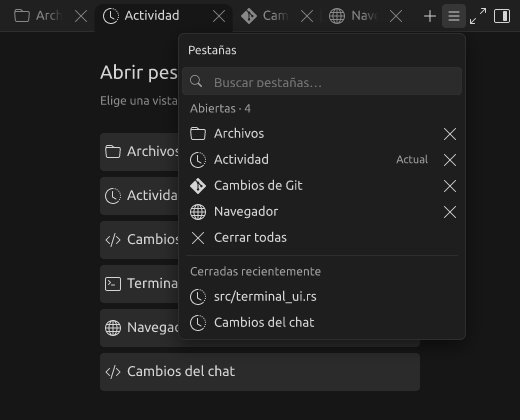
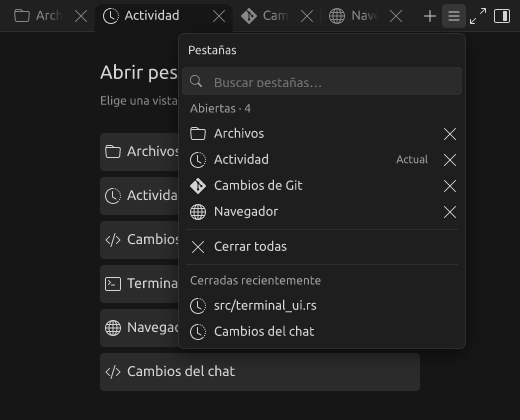
limn v0.1.32: the dock covers the conversation while it maximizes and restores, and a menu row's close has a hover of its own
While the right dock grows to maximized or comes back, the conversation keeps
the place and the width it has at rest and the dock moves over it. It used
to be laid out again in what the dock left on every frame of the way back,
which read as a flicker.

In the tabs menu a row answers the pointer with one fill behind the row and
its close, and the close adds its own. "Cerrar todas" stands under a
divider.

Changed region(s): [[0.3692, 0.5571, 0.6154, 0.8357]]

diff --git a/apps/agents-window/src/view.rs b/apps/agents-window/src/view.rs
@@ -711,6 +711,9 @@ pub struct ViewState {
     pub terminal_maximized: bool,
     /// The right dock takes the room of the conversation and its composer.
     pub dock_maximized: bool,
+    /// The right dock is on its way to or from maximized: it moves over the
+    /// conversation, which keeps the place it has at rest.
+    pub dock_covering: bool,
     pub show_terminal_panel: bool,
     pub terminal_panel_height: f32,
     pub terminal_snapshot: Option<TerminalSnapshot>,
@@ -830,6 +833,17 @@ pub struct DockLayout {
 }
 
 pub fn dock_layout(state: &ViewState, viewport: f32) -> DockLayout {
+    dock_layout_for(state, viewport, state.dock_maximized, state.right_presentation_width)
+}
+
+/// The layout with the right dock `maximized` or not and at `presented`
+/// width, whatever the state says of either: at rest it is `(false, None)`.
+fn dock_layout_for(
+    state: &ViewState,
+    viewport: f32,
+    maximized: bool,
+    presented: Option<f32>,
+) -> DockLayout {
     if crate::ide_workspace::active(state) {
         return crate::ide_workspace::layout(state, viewport);
     }
@@ -851,18 +865,13 @@ pub fn dock_layout(state: &ViewState, viewport: f32) -> DockLayout {
         .left_presentation_width
         .unwrap_or(if left_visible { 200.0 } else { 0.0 })
         .max(0.0);
-    let right_for_threshold = state
-        .right_presentation_width
-        .unwrap_or(MIN_RIGHT_DOCK)
-        .max(0.0);
+    let right_for_threshold = presented.unwrap_or(MIN_RIGHT_DOCK).max(0.0);
     let side_threshold = (2.0 + f32::from(left_visible)) * GAP
         + RIGHT_DIVIDER
         + left_for_threshold
         + right_for_threshold
         + center_min_with_right;
-    let side_requested = state
-        .right_presentation_width
-        .map_or(state.show_side_pane, |width| width > 1.0);
+    let side_requested = presented.map_or(state.show_side_pane, |width| width > 1.0);
     let side_visible = side_requested
         && !state.show_settings
         && state.main_page == MainPage::Workspace
@@ -888,7 +897,7 @@ pub fn dock_layout(state: &ViewState, viewport: f32) -> DockLayout {
     };
     let right = side_visible.then(|| {
         let max_width = (viewport - gaps - left - center_min_with_right).max(0.0);
-        if let Some(width) = state.right_presentation_width {
+        if let Some(width) = presented {
             width.clamp(0.0, max_width)
         } else {
             state
@@ -901,15 +910,13 @@ pub fn dock_layout(state: &ViewState, viewport: f32) -> DockLayout {
     // Maximized, the right dock takes the conversation's room beside the
     // sidebar as it stands: it shows in a window of any width, and has no
     // center to keep nor divider to drag.
-    if state.dock_maximized
+    if maximized
         && side_requested
         && !state.show_settings
         && state.main_page == MainPage::Workspace
     {
         let room = (viewport - (2.0 + f32::from(left_visible)) * GAP - left).max(0.0);
-        let right = state
-            .right_presentation_width
-            .map_or(room, |width| width.clamp(0.0, room));
+        let right = presented.map_or(room, |width| width.clamp(0.0, room));
         return DockLayout {
             left,
             right: Some(right),
@@ -3272,14 +3279,21 @@ pub(crate) fn build_view_sized(state: &ViewState, viewport_width: f32, viewport_
             viewport_width,
         );
     }
-    let layout = dock_layout(state, viewport_width);
+    // A dock on its way to or from maximized moves over the conversation,
+    // which is laid out as it stands at rest: nothing in it reflows, and it
+    // is covered or uncovered as the dock passes.
+    let covering = state.right_presentation_width.filter(|_| state.dock_covering);
+    let layout = match covering {
+        Some(_) => dock_layout_for(state, viewport_width, false, None),
+        None => dock_layout(state, viewport_width),
+    };
     let terminal_height = terminal_panel_height(state, viewport_height);
     let workspace_height = (viewport_height - terminal_height).max(0.0);
     let left = layout.left;
     let left_visible = left > 1.0;
     // Maximized, the right dock is the whole workspace surface: the
     // conversation and its composer are not built until it is restored.
-    if let Some(right) = layout.right.filter(|_| state.dock_maximized) {
+    if let Some(right) = layout.right.filter(|_| state.dock_maximized && covering.is_none()) {
         let mut docks = Vec::new();
         if left_visible {
             docks.push(
@@ -3288,17 +3302,14 @@ pub(crate) fn build_view_sized(state: &ViewState, viewport_width: f32, viewport_
                     .clip_children(),
             );
         }
-        // While it grows, the dock keeps to the right edge it started from,
-        // over the room the conversation left.
         let mut workspace = vec![Element::row(vec![
-            Element::spacer().size(Some(layout.center), None),
             side_pane_sized(state, right, workspace_height).clip_children(),
         ])
         .flex(1.0)
         .clip_children()];
         if terminal_height > 0.0 {
             workspace.push(
-                ide_ui::bottom::build(state, layout.center + right, terminal_height)
+                ide_ui::bottom::build(state, right, terminal_height)
                     .size(None, Some(terminal_height)),
             );
         }
@@ -3557,14 +3568,32 @@ pub(crate) fn build_view_sized(state: &ViewState, viewport_width: f32, viewport_
     } else {
         center
     };
-    let mut workspace = vec![center];
-    if let Some(right) = layout.right {
-        workspace.push(Separator::vertical(theme::component_palette()).render());
-        workspace.push(side_pane_sized(state, right, workspace_height).clip_children());
-    }
+    // The room the conversation and the dock share.
+    let room = layout.center + layout.right.map_or(0.0, |right| right + RIGHT_DIVIDER);
+    let workspace = match covering {
+        Some(width) => {
+            let width = width.clamp(0.0, room);
+            vec![
+                // What the dock has not reached of the conversation, which
+                // stays as wide as it is at rest.
+                Element::row(vec![center.flex(0.0).size(Some(layout.center), None)])
+                    .size(Some(room - width), None)
+                    .clip_children(),
+                side_pane_sized(state, width, workspace_height).clip_children(),
+            ]
+        }
+        None => {
+            let mut workspace = vec![center];
+            if let Some(right) = layout.right {
+                workspace.push(Separator::vertical(theme::component_palette()).render());
+                workspace.push(side_pane_sized(state, right, workspace_height).clip_children());
+            }
+            workspace
+        }
+    };
     let top = Element::row(workspace).flex(1.0).clip_children();
     let workspace = if terminal_height > 0.0 {
-        let width = layout.center + layout.right.map_or(0.0, |right| right + RIGHT_DIVIDER);
+        let width = room;
         Element::column(vec![
             top,
             ide_ui::bottom::build(state, width, terminal_height)
@@ -4244,6 +4273,7 @@ pub(crate) mod tests {
             terminal_controls: Default::default(),
             terminal_maximized: false,
             dock_maximized: false,
+            dock_covering: false,
             show_terminal_panel: false,
             terminal_panel_height: 240.0,
             terminal_snapshot: None,

diff --git a/apps/agents-window/src/dock_integration_tests.rs b/apps/agents-window/src/dock_integration_tests.rs
@@ -995,6 +995,29 @@ fn the_dock_is_maximized_over_the_conversation_and_restored_by_its_control_and_b
         assert_eq!(restored.0.right.is_some(), !narrow);
         assert_eq!(restored.3.len(), 2);
         assert!(restored.4 > 0.0);
+        // Where everything left of the dock stands at rest. While the dock
+        // moves over the conversation none of it shifts sideways: it is
+        // covered, never laid out again in what is left.
+        let split = restored.0.right_split_x.unwrap_or(f32::INFINITY);
+        let rest: std::collections::HashMap<String, f32> = app
+            .tree
+            .frame()
+            .regions
+            .iter()
+            .filter(|region| region.rect.x < split - 8.0)
+            .map(|region| (region.id.clone(), region.rect.x))
+            .collect();
+        assert!(rest.contains_key("prompt") && rest.len() > 8);
+        let unmoved = |app: &AgentsWindow| {
+            let mut seen = 0;
+            for region in &app.tree.frame().regions {
+                if let Some(x) = rest.get(&region.id) {
+                    assert_eq!(region.rect.x, *x, "{} moved sideways", region.id);
+                    seen += 1;
+                }
+            }
+            seen
+        };
         for shortcut in [narrow, true] {
             // At rest, as the window leaves it once its panels have settled.
             app.update_dock_motion(app.viewport_width, clock);
@@ -1047,19 +1070,23 @@ fn the_dock_is_maximized_over_the_conversation_and_restored_by_its_control_and_b
             let growing = app.view.right_presentation_width.expect("the width is in transit");
             assert!(from < growing && growing < room, "{from} {growing} {room}");
             assert!(app.view.bottom_presentation_height.is_some_and(|height| height < restored.4));
+            assert!(app.view.dock_covering);
             present_workspace(&mut app);
             let edge = |app: &AgentsWindow| {
                 let rect = region_rect(app, "toggle_side_pane");
                 rect.x + rect.width
             };
             let midway = edge(&app);
-            assert!(!shown(&app, "prompt"), "the conversation is not laid out in what is left");
+            // The conversation is still there under the dock, where it was.
+            assert!(unmoved(&app) > 4, "the conversation shows until the dock reaches it");
             clock += super::DockMotion::DURATION;
             app.update_dock_motion(app.viewport_width, clock);
             assert_eq!(app.view.right_presentation_width, None);
             assert_eq!(app.view.bottom_presentation_height, None);
+            assert!(!app.view.dock_covering);
             present_workspace(&mut app);
             assert_eq!(edge(&app), midway, "it grows leftwards");
+            assert!(!shown(&app, "prompt"), "maximized, the conversation is not laid out");
 
             if shortcut {
                 maximize_shortcut(&mut app);
@@ -1068,13 +1095,21 @@ fn the_dock_is_maximized_over_the_conversation_and_restored_by_its_control_and_b
             }
             assert!(!app.view.dock_maximized && !app.dock.is_maximized(&scope));
             assert!(app.prompt_focus_pending, "the keyboard goes back to the composer");
-            // It comes back the same way, and the conversation with it.
+            // It comes back the same way, uncovering the conversation where
+            // it stands: from the first frame nothing in it is laid out again.
             assert!(app.update_dock_motion(app.viewport_width, clock));
-            clock += super::DockMotion::DURATION / 2;
-            assert!(app.update_dock_motion(app.viewport_width, clock));
-            let shrinking = app.view.right_presentation_width.expect("the width is in transit");
-            assert!(from < shrinking && shrinking < room, "{from} {shrinking} {room}");
+            assert_eq!(app.view.right_presentation_width, Some(room));
             present_workspace(&mut app);
+            unmoved(&app);
+            for _ in 0..3 {
+                clock += super::DockMotion::DURATION / 4;
+                assert!(app.update_dock_motion(app.viewport_width, clock));
+                let shrinking = app.view.right_presentation_width.expect("the width is in transit");
+                assert!(from < shrinking && shrinking < room, "{from} {shrinking} {room}");
+                assert!(app.view.dock_covering);
+                present_workspace(&mut app);
+                assert!(unmoved(&app) > 4);
+            }
             assert!(shown(&app, "prompt"));
             clock += super::DockMotion::DURATION;
             app.update_dock_motion(app.viewport_width, clock);

diff --git a/apps/agents-window/src/app.rs b/apps/agents-window/src/app.rs
@@ -1120,6 +1120,8 @@ struct DockMotion {
     bottom_maximized: bool,
     ide: bool,
     maximized: bool,
+    /// The right dock moves because it was maximized or restored.
+    covering: bool,
 }
 
 impl DockMotion {
@@ -1137,6 +1139,7 @@ impl DockMotion {
             bottom_maximized: false,
             ide: false,
             maximized: false,
+            covering: false,
         }
     }
 
@@ -1152,9 +1155,12 @@ impl DockMotion {
         let resized = (self.viewport_width - viewport_width).abs() > 0.5;
         self.viewport_width = viewport_width;
         // Maximizing or restoring the right dock moves it as a toggle does.
+        let maximize_changed = std::mem::replace(&mut self.maximized, maximized) != maximized;
         let visibility_changed = (self.left.target() > 0.5) != (target_left > 0.5)
             || (self.right.target() > 0.5) != (target_right > 0.5)
-            || std::mem::replace(&mut self.maximized, maximized) != maximized;
+            || maximize_changed;
+        // A toggle of either dock in between takes the move over.
+        self.covering = maximize_changed || (self.covering && !visibility_changed);
         for (transition, content_width, target) in [
             (&mut self.left, &mut self.content_left, target_left),
             (&mut self.right, &mut self.content_right, target_right),
@@ -1174,6 +1180,7 @@ impl DockMotion {
                 *content_width = target;
             }
         }
+        self.covering &= self.right.is_active(now);
         (
             self.left.is_active(now).then(|| self.left.value(now)),
             self.right.is_active(now).then(|| self.right.value(now)),
@@ -6888,6 +6895,7 @@ impl AgentsWindow {
             terminal_menu_open: false,
             terminal_maximized: false,
             dock_maximized: false,
+            dock_covering: false,
             show_terminal_panel: false,
             terminal_panel_height: 240.0,
             terminal_snapshot: None,
@@ -20514,6 +20522,7 @@ impl AgentsWindow {
         }
         if self.dock_drag.is_some() {
             self.dock_motion = None;
+            self.view.dock_covering = false;
             self.view.left_presentation_width = None;
             self.view.right_presentation_width = None;
             self.view.bottom_presentation_height = None;
@@ -20537,6 +20546,7 @@ impl AgentsWindow {
         );
         self.view.left_presentation_width = left;
         self.view.right_presentation_width = right;
+        self.view.dock_covering = motion.covering && right.is_some();
         self.view.ide.explorer_content_width =
             (ide && left.is_some()).then_some(motion.content_left);
         self.view.ide.agent_content_width =

diff --git a/apps/agents-window/src/dock_chrome.rs b/apps/agents-window/src/dock_chrome.rs
@@ -253,6 +253,7 @@ fn all_tabs_menu(state: &ViewState) -> Element {
         entries.push(DropdownMenuEntry::custom(row.render().size(None, Some(26.0))));
     }
     if open.len() > 1 && query.is_empty() {
+        entries.push(DropdownMenuEntry::Separator);
         entries.push(
             DropdownMenuItem::new("dock_close_all", "Cerrar todas")
                 .icon(Icon::Close)
@@ -1162,6 +1163,23 @@ mod tests {
             ];
             state.show_dock_tabs_menu = true;
             shot(&state, width, "tabs-menu");
+            // The pointer over a row, then over its close: the row's fill
+            // behind both, and the close's own over it.
+            for (name, target) in [("row", "dock_tab_menu:2"), ("close", "dock_tab_menu_close:2")] {
+                let name = format!("dock-header-tabs-menu-hover-{name}-{width:.0}");
+                super::super::dock_visual_tests::export_with_interaction(
+                    side_pane(&state, width),
+                    width,
+                    420.0,
+                    &name,
+                    Some(super::super::dock_visual_tests::ExportInteraction::Hover(target)),
+                );
+                std::fs::copy(
+                    format!("/tmp/openade-dock-review/{name}.png"),
+                    directory.join(format!("{}.png", name.trim_start_matches("dock-header-"))),
+                )
+                .unwrap();
+            }
             state.dock_overview_query = "git".into();
             shot(&state, width, "tabs-menu-search");
             state.dock_overview_query.clear();

diff --git a/apps/agents-window/src/session_surface.rs b/apps/agents-window/src/session_surface.rs
@@ -4359,6 +4359,7 @@ mod tests {
             terminal_controls: Default::default(),
             terminal_maximized: false,
             dock_maximized: false,
+            dock_covering: false,
             show_terminal_panel: false,
             terminal_panel_height: 240.0,
             terminal_snapshot: None,

diff --git a/docs/right-dock.md b/docs/right-dock.md
@@ -29,6 +29,10 @@ pestañas», que ocupaba el panel entero. Cerrar las demás, cerrar todas y move
 una pestaña a la izquierda o a la derecha están en el menú contextual de cada
 pestaña; arrastrarla también la reordena.
 
+En ese menú cada fila responde al puntero con un relleno detrás de la fila y
+de su cierre, y el cierre suma el suyo encima (limn v0.1.32). **Cerrar todas**
+va separada de las pestañas por un divisor.
+
 La barra mide 32 px y las pestañas 28 px, con ancho según el título. La activa
 comparte el fondo del contenido: tiene radio de 8 px sólo arriba y llega hasta
 el cuerpo, sin margen inferior. Las inactivas descansan sobre una franja
@@ -142,10 +146,11 @@ con el panel oculto o sin pestañas, donde el control aparece deshabilitado.
   debajo del panel; un comando del agente queda listado sin abrirla. Problemas
   no se oculta: acompaña al archivo del panel.
 - El ancho preferido no cambia y vuelve tal cual. Maximizado no hay divisor que
-  arrastrar. El panel crece desde su borde derecho sobre el lugar de la
+  arrastrar. El panel crece desde su borde derecho por encima de la
   conversación, y vuelve, con el mismo movimiento que abrir o cerrar un panel
-  (200 ms); la conversación no se dibuja mientras crece y vuelve a dibujarse
-  mientras el panel se achica. Reducir movimiento aplica el cambio de una vez.
+  (200 ms). Mientras se mueve, la conversación conserva el lugar y el ancho
+  que tiene en reposo: el panel la tapa o la descubre y nada en ella se vuelve
+  a acomodar. Reducir movimiento aplica el cambio de una vez.
 - Con la barra lateral plegada, la barra de pestañas del panel maximizado
   ofrece **Mostrar barra lateral**, que la cabecera tapada de la conversación
   ya no puede ofrecer.
